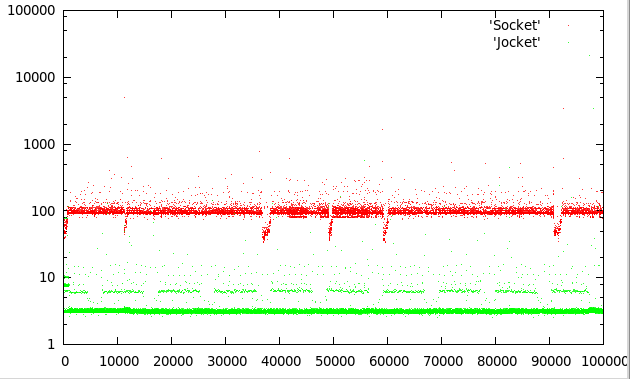
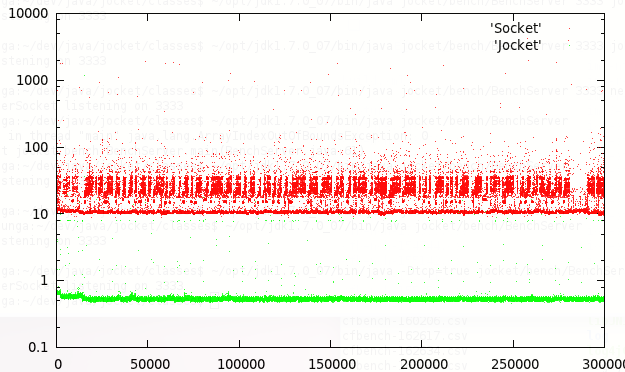
Updated benchmark results.

Changed region(s): [[0.0, 0.0, 1.0, 1.0]]

diff --git a/README.md b/README.md
@@ -7,9 +7,9 @@ Low-latency replacement for Java sockets, using shared memory.
 Status
 ------
 
-Jocket is young and still in progress.
+Jocket is young and still under development. It has been tested only on Linux.
 
-Current benchmarks show a 10-50x performance improvement when compared to a standard socket.
+Current benchmarks show a 10-100x performance improvement when compared to a standard socket.
 
 The following chart displays the RTT latency (in microseconds) between two processes:
  - the client sends a PING request (payload = 4 bytes)
@@ -17,9 +17,7 @@ The following chart displays the RTT latency (in microseconds) between two proce
 
 ![alt text](docs/bench.png "Latency for an 1kb PING. Red = Socket, green = Jocket")
 
-
-NB: this benchmark has been run on an old single-core "holiday" laptop. I will update it with probably better results when I have access to my main computer.
-
+This benchmark was run on an Intel Core i5-2500.
 
 How it works
 ------------
